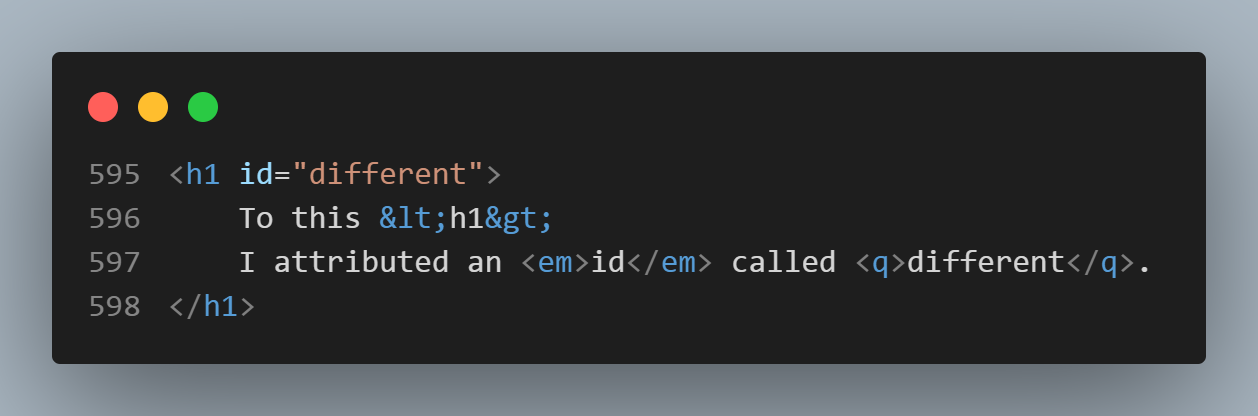
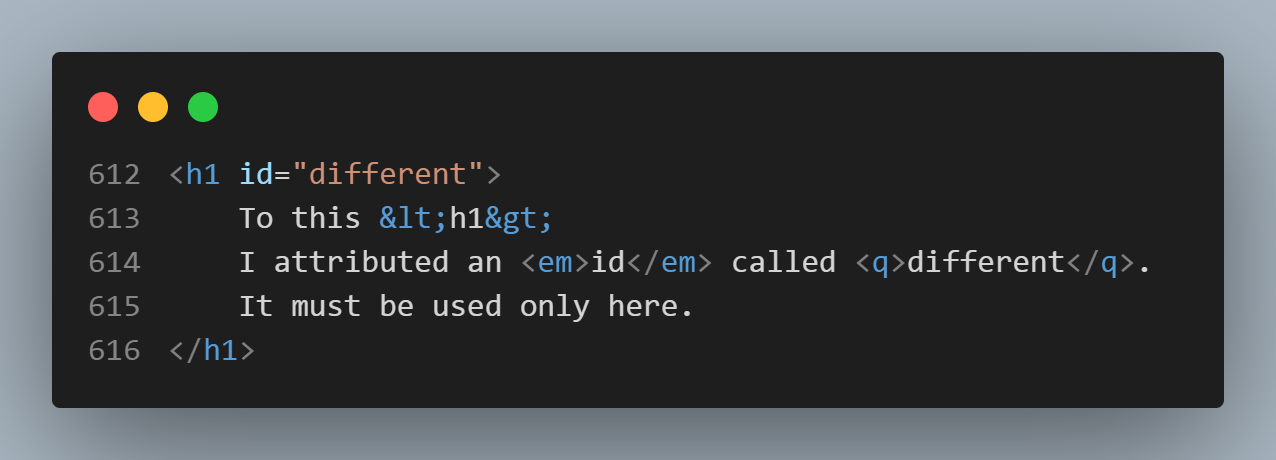
id and class usage update.

diff --git a/m2-css-only/continuing.html b/m2-css-only/continuing.html
@@ -584,11 +584,20 @@
             </p>
 
             <article class="clarify-box">
-                <h2>Clarifying: The Difference Between <q>i.e.</q> (used above) and  <q>e.g.</q></h2>
+                <h2>Clarifying<sup>1</sup>: The Difference Between <q>i.e.</q> (used above) and  <q>e.g.</q></h2>
 
-                    <p>
-                        (And teaching: here I'm using HTML &lt;blockquote&gt; and CSS box-shadow - check the code)
-                    </p>
+                    <article class="clarify-box">
+                        <p>
+                            Check the code. Here I'm using:
+                        </p>
+                        
+                        <ol>
+                            <li>&lt;article&gt; (one inside the other)</li>
+                            <li>class (The same. See? You can use CLASS repeatedly)</li>
+                            <li>HTML &lt;blockquote&gt;</li>
+                            <li>CSS box-shadow (one inside the other)</li>
+                        </ol>
+                    </article>
 
                     <blockquote cite="https://www.merriam-webster.com/words-at-play/ie-vs-eg-abbreviation-meaning-usage-difference#:~:text=I.e.%20is%20an%20abbreviation%20for,examples%20for%20the%20previous%20statement.">
 
@@ -611,11 +620,12 @@
 
     <h1 id="different">
         To this &lt;h1&gt;
-        I attributed an <em>id</em> called <q>different</q>.
+        I attributed an <em>id</em> called <q>different</q>. 
+        It must be used only here.
     </h1>
 
             <p>
-                I did it in the HTML file. Look:
+                First I did it in the HTML file. As all the attributes, you put it in the opening tag. Look:
             </p>
             
             <img src="assets/different-1.png" width="50%" alt="id code in the html file">
@@ -639,6 +649,24 @@
             </p>
 
             <img src="assets/different-3.png" width="30%" alt="id code for any tag I want in the CSS file">
+
+            <article class="clarify-box">
+
+                <h2>
+                    Clarifying<sup>2</sup>: <br>
+                     Never use the same <q>id</q> for two (or more) <q>things</q>,<br>
+                     <em>although it will work!</em> But would be wrong.
+                </h2>
+
+                <p>
+                    So wrong that I don't know why they allow it to work. Looks like a prank (pegadinha, in portuguese), agree?
+                </p>
+
+                <p>
+                    See again? You can use CLASS repeatedly
+                </p>
+                
+            </article>
 
         <h2>
             4.1.1) id in local navbar

diff --git a/m2-css-only/m2.css b/m2-css-only/m2.css
@@ -51,6 +51,8 @@ h3 {
   margin: auto;
   padding: 2%;
   color: blue;
+  margin-top: 3em;
+  margin-bottom: 3em;
 }
 
 footer {
